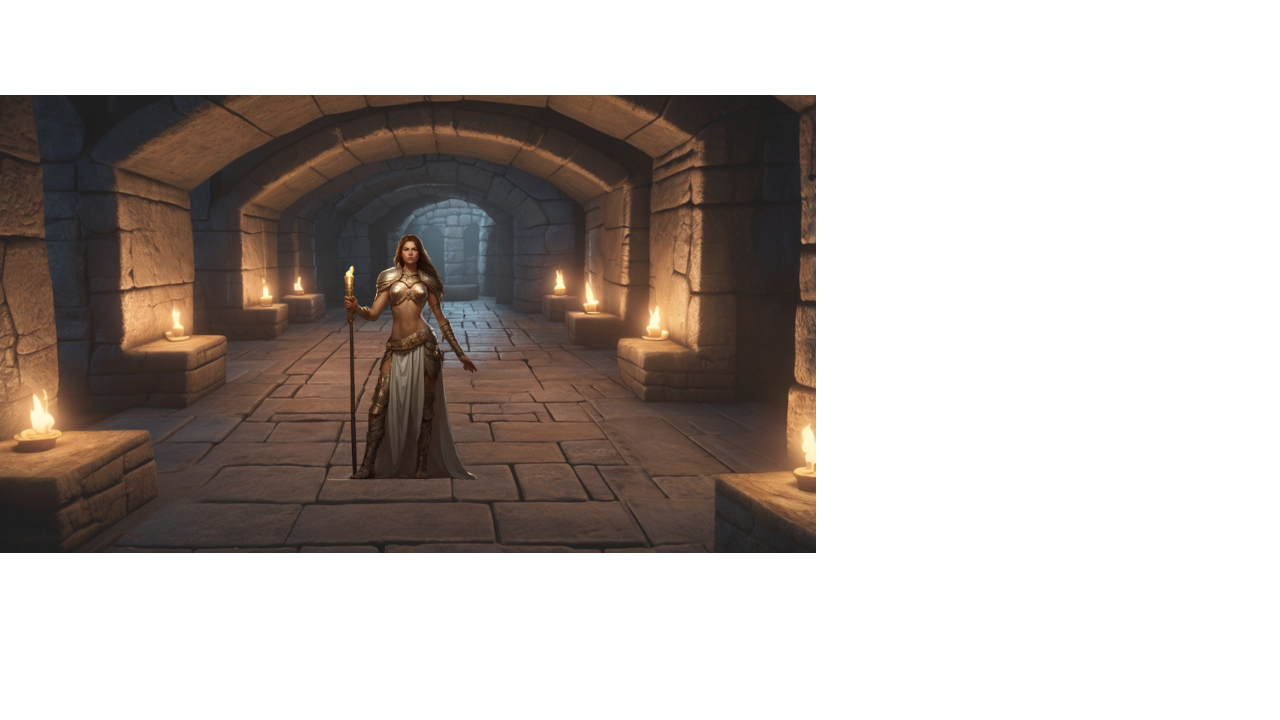
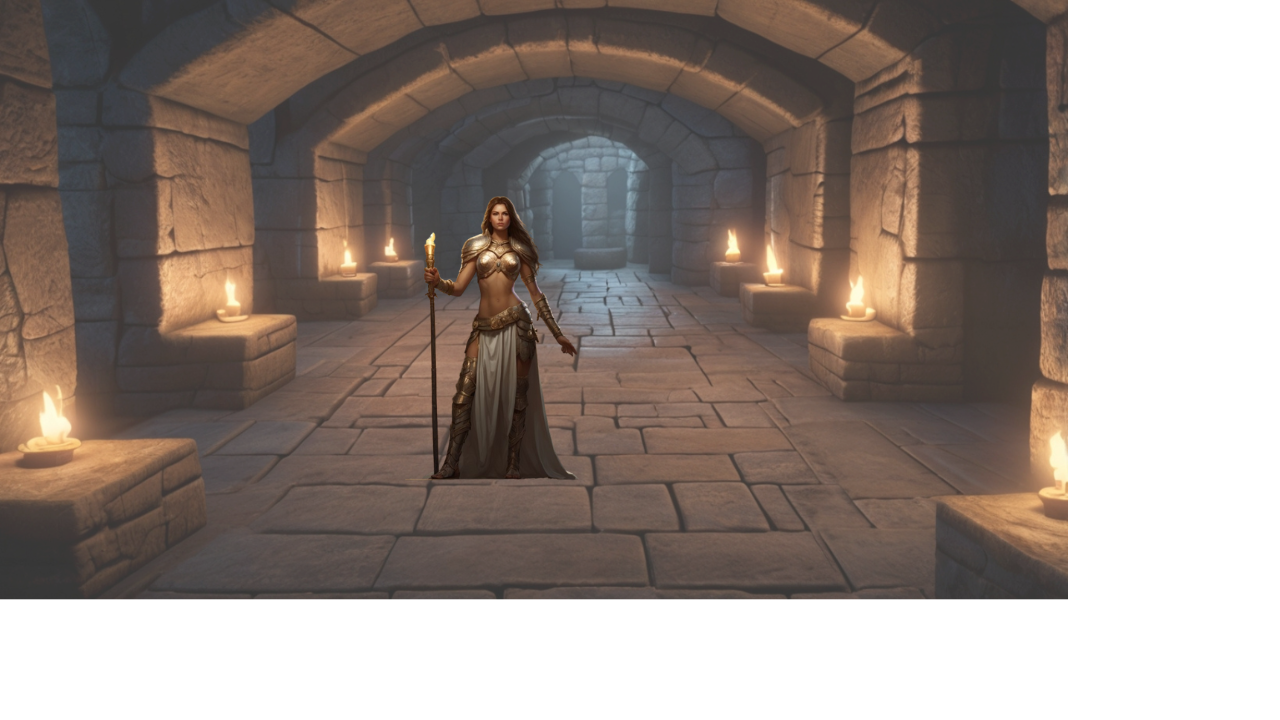
Visual updates to GameplayGUI class

diff --git a/Src/src/View/GameplayGUI.java b/Src/src/View/GameplayGUI.java
@@ -11,36 +11,40 @@ public class GameplayGUI extends JPanel {
     private String myName;
     private int myHero;
     private int myDifficulty;
+    private JPanel myPanel;
     private JLabel myGameplay;
     private JTextArea myInventory;
     private JLabel myInstructions;
     private int myCurrentHealthPotions;
     private int myCurrentVisionPotions;
     private int myCurrentPillars;
+    private JMenuBar myMenubar;
 
-    public GameplayGUI(final String theName, final int theHero, final int theDifficulty) {
+    public GameplayGUI(final String theName,
+                       final int theHero,
+                       final int theDifficulty,
+                       final JPanel thePanel) {
         setLayout(null);
         myName = theName;
         myHero = theHero;
         myDifficulty = theDifficulty;
+        myPanel = thePanel;
         myGameplay = new JLabel();
         myInventory = new JTextArea();
         myInstructions = new JLabel();
         myCurrentHealthPotions = 0;
         myCurrentVisionPotions = 0;
         myCurrentPillars = 0;
-        System.out.println(myName);
-        System.out.println(myHero);
-        System.out.println(myDifficulty);
+        myMenubar = new JMenuBar();
         setGameplay(theHero);
-        setInventory();
-        setRobotImage();
         setSize(FRAME_WIDTH, FRAME_HEIGHT);
     }
 
     private void setGameplay(final int theHero) {
-        myGameplay.setBounds(0, 0, 750, 325);
+        myPanel.setVisible(true);
+        myGameplay.setBounds(0, 0, FRAME_WIDTH, FRAME_HEIGHT);
         if (theHero == 0) {
+
             myGameplay.setIcon(new ImageIcon("images/thief_in_dungeon.png"));
         } else if (theHero == 1) {
             myGameplay.setIcon(new ImageIcon("images/warrior_in_dungeon.png"));
@@ -51,21 +55,9 @@ public class GameplayGUI extends JPanel {
         add(myGameplay);
     }
 
-    private void setInventory() {
-        myInventory.setBounds(750, 0, 300, 325);
-        myInventory.append("Health potions x " + myCurrentHealthPotions + "\n");
-        myInventory.append("Vision potions x " + myCurrentVisionPotions + "\n");
-        myInventory.append("Pillars Collected: " + myCurrentHealthPotions + "/4\n");
-        myInventory.setOpaque(true);
-        add(myInventory);
-    }
 
-    private void setRobotImage() {
-        myInstructions.setBounds(0, 325, FRAME_WIDTH, FRAME_HEIGHT);
-        myInstructions.setIcon(new ImageIcon("images/robot.png"));
-        myInstructions.setOpaque(true);
-        add(myInstructions);
-    }
+
+
 
     public int getNumberOfHealthPotions() {
         return myCurrentHealthPotions;

diff --git a/Src/src/Controller/DungeonGUI.java b/Src/src/Controller/DungeonGUI.java
@@ -16,6 +16,14 @@ public class DungeonGUI extends JFrame {
     private static final int FRAME_HEIGHT = 500;
     private JPanel myHomePanel;
     private JLabel myBackgroundLabel;
+    private JMenuBar myMenubar;
+    private JMenu myGameplay;
+    private JMenu myHelp;
+    private JMenuItem myMap;
+    private JMenuItem myInventory;
+    private JMenuItem myInstructions;
+    private JMenuItem myControls;
+    private JPanel myMenuPanel;
 
     public static void main(String[] args) {
         new DungeonGUI();
@@ -25,11 +33,21 @@ public class DungeonGUI extends JFrame {
         super(WINDOW_TITLE);
         myHomePanel = new JPanel();
         myBackgroundLabel = new JLabel();
+        myMenubar = new JMenuBar();
+        myGameplay = new JMenu("Gameplay");
+        myHelp = new JMenu("Help");
+        myMap = new JMenuItem("Map");
+        myInventory = new JMenuItem("Inventory");
+        myInstructions = new JMenuItem("Instructions");
+        myControls = new JMenuItem("Controls");
+        myMenuPanel = new JPanel(new BorderLayout());
         setHomePage();
+        setMenuBar();
         setSize(FRAME_WIDTH, FRAME_HEIGHT);
         setIconImage(new ImageIcon(ICON_IMAGE_PATH).getImage());
         setDefaultCloseOperation(JFrame.EXIT_ON_CLOSE);
         setLocationRelativeTo(null);
+        setResizable(false);
         setVisible(true);
     }
 
@@ -46,15 +64,28 @@ public class DungeonGUI extends JFrame {
             }
         });
         myHomePanel.add(myBackgroundLabel);
+
         add(myHomePanel);
     }
 
     private void showSettingsPanel() {
         remove(myHomePanel);
-        SettingsGUI settingsPanel = new SettingsGUI();
+        SettingsGUI settingsPanel = new SettingsGUI(myMenuPanel);
         add(settingsPanel);
         revalidate();
         repaint();
+    }
+
+    private void setMenuBar() {
+        myGameplay.add(myMap);
+        myGameplay.add(myInventory);
+        myHelp.add(myInstructions);
+        myHelp.add(myControls);
+        myMenubar.add(myGameplay);
+        myMenubar.add(myHelp);
+        myMenuPanel.add(myMenubar, BorderLayout.NORTH);
+        add(myMenuPanel, BorderLayout.NORTH);
+        myMenuPanel.setVisible(false);
     }
 
 }

diff --git a/Src/src/View/SettingsGUI.java b/Src/src/View/SettingsGUI.java
@@ -31,10 +31,12 @@ public class SettingsGUI extends JPanel {
     private JComboBox myDifficultyBox;
     private JButton myReadyButton;
     private JLabel myBackgroundImage;
+    private JPanel myPanel;
 
-    public SettingsGUI() {
+    public SettingsGUI(final JPanel thePanel) {
         setSize(FRAME_WIDTH, FRAME_HEIGHT);
         setLayout(null);
+        myPanel = thePanel;
         mySelectedHero = new JLabel();
         mySelectedHeroBorder = new JLabel();
         myNameLabel = new JLabel();
@@ -153,7 +155,7 @@ public class SettingsGUI extends JPanel {
         JFrame parentFrame = (JFrame) SwingUtilities.getWindowAncestor(this);
         parentFrame.remove(this);
 
-        GameplayGUI anotherPanel = new GameplayGUI(theName, theHero, theDifficulty);
+        GameplayGUI anotherPanel = new GameplayGUI(theName, theHero, theDifficulty, myPanel);
         parentFrame.add(anotherPanel);
 
         parentFrame.revalidate();
